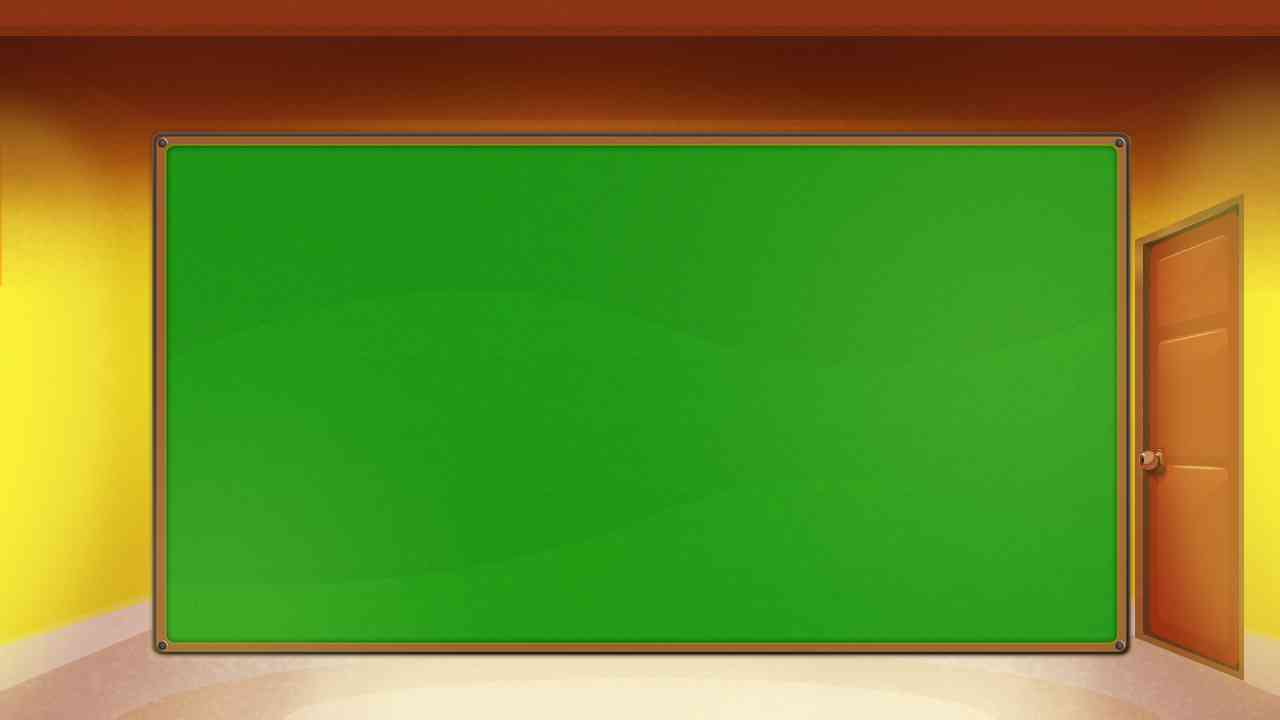
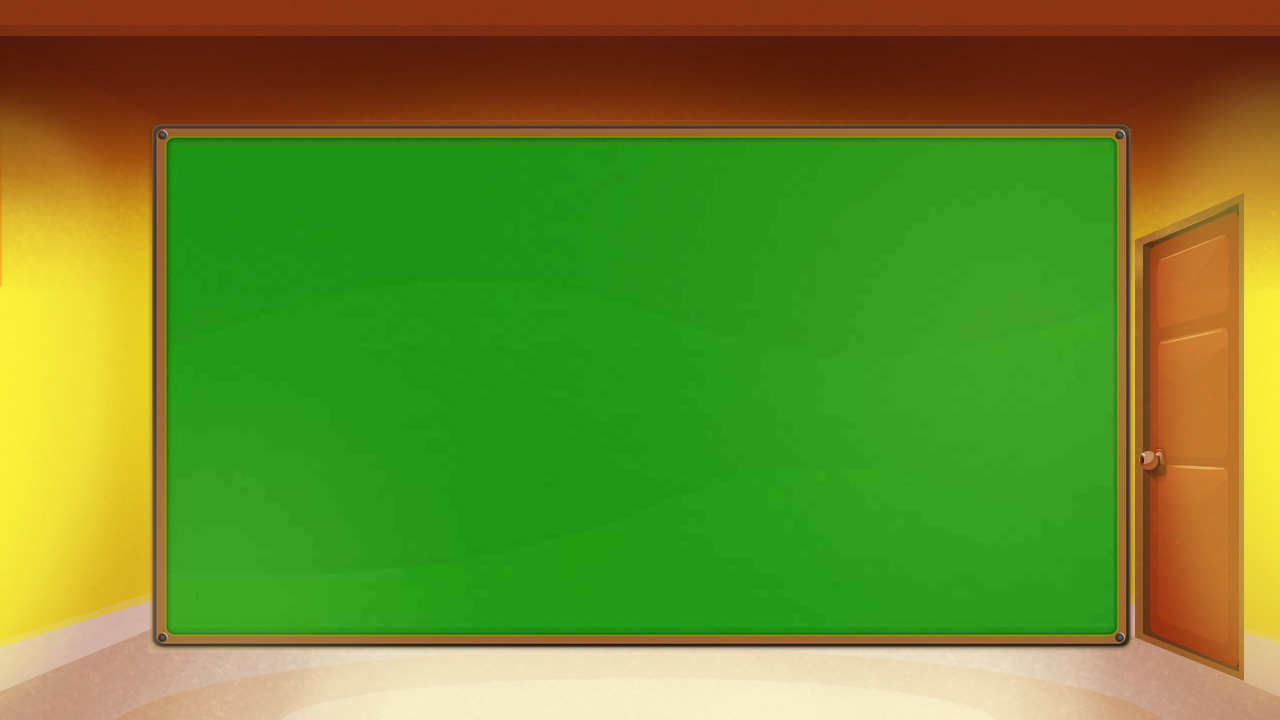
Updated Images BG

diff --git a/screens/Letters/letterScreen.js b/screens/Letters/letterScreen.js
@@ -102,7 +102,7 @@ class Letters extends Component {
         // Component State
     constructor() {
         super();
-        
+
         this.state = {
 
             //Background State
@@ -156,7 +156,7 @@ class Letters extends Component {
     };
 
     skipIntroVideo = () => {
-        this.setState({skipVideo: '-1000%', paused: true, 
+        this.setState({skipVideo: '-1000%', paused: true,
         hideSkipBtn: '-1000%', vidSource: null, menuLetterHide: '20%',
         hideNavButton: '-2%'});
     }
@@ -208,7 +208,7 @@ class Letters extends Component {
 
     changeBackground = (imageBG, soundPlay) => {
         this.stopGlow();
-        this.setState({menuLetterHide: imageBG == imageMainBG ? '20%' : '-1000%', 
+        this.setState({menuLetterHide: imageBG == imageMainBG ? '20%' : '-1000%',
                         prevHide: imageBG == LetterA ? hideLeft : showPrev,
                         imageBackground: imageBG,
                         nextHide: imageBG == imageMainBG ? hideRight : showNext,
@@ -226,7 +226,7 @@ class Letters extends Component {
                 this.arrayLetterSound[this.state.letterPlay].play();
             }
         }, 500);
-        
+
         this.glow1 = setTimeout(() => {
             if(this.arrayWordSound[this.state.letterPlay] != null) {
                 this.arrayWordSound[this.state.letterPlay].play();
@@ -252,8 +252,8 @@ class Letters extends Component {
     sentencePage = () => {
         const letterIndex = this.state.letterPlay;
         this.stopGlow();
-        this.setState({menuLetterHide: '-1000%', 
-                        imageBackground: sentenceBGList[letterIndex], 
+        this.setState({menuLetterHide: '-1000%',
+                        imageBackground: sentenceBGList[letterIndex],
                         prevHide: hideLeft, nextHide: hideRight,
                         glowHide: hideLeft, speakerHide: hideLeft,
                         speaker2Hide: showSpeaker, sentenceHide: hideRight,
@@ -262,7 +262,7 @@ class Letters extends Component {
             this.playSentenceSound();
         }, 300);
     }
-    
+
     handleBackPress = () => {
         this.arrayLetterSound = null;
         this.arraySentenceSound = null;
@@ -282,9 +282,9 @@ class Letters extends Component {
 
     playSentenceSound = () => {
         this.stopSounds();
-        
+
         const soundSentence = this.arraySentenceSound[this.state.letterPlay];
-        
+
         if(soundSentence != null) {
             setTimeout(()=>{
                 soundSentence.play();
@@ -295,7 +295,7 @@ class Letters extends Component {
     playWordSound = () => {
         this.stopGlow();
         const soundWord = this.arrayWordSound[this.state.letterPlay];
-        
+
         if(soundWord != null) {
             setTimeout(()=>{
                 soundWord.play();
@@ -339,7 +339,7 @@ class Letters extends Component {
             this.arraySentenceSound[this.state.letterPlay].stop();
         }
     }
-    
+
     goPrev = () => {
         const letterNum = this.state.letterPlay;
         const prevPage = letterNum - 1;
@@ -357,7 +357,7 @@ class Letters extends Component {
     goBack = () => {
         if(this.state.prevBG == sentenceBGList[this.state.letterPlay]) {
             this.stopGlow();
-            this.setState({menuLetterHide: '-1000%', 
+            this.setState({menuLetterHide: '-1000%',
                     imageBackground: letterBGList[this.state.letterPlay],
                     prevHide: letterBGList[this.state.letterPlay] == LetterA ? hideLeft : showPrev,
                     pencilHide: showPencil,
@@ -366,7 +366,7 @@ class Letters extends Component {
                     sentenceHide: showSentence,
                     nextHide: showNext,
                     speaker2Hide: hideLeft, prevBG: letterBGList[this.state.letterPlay]});
-                
+
         } else {
             if(this.state.imageBackground == imageMainBG) {
                 clearTimeout(this.wordSound);
@@ -390,9 +390,11 @@ class Letters extends Component {
 
     render() {
         return (
-            
-            <ImageBackground source={imageMainBG} style={{flex: 1, width: '100%', height: '100%', resizeMode: 'stretch'}}>
 
+            <ImageBackground source={imageMainBG} style={{flex: 1, width: '100%', height: '100%', resizeMode: 'stretch'}}>
+                <View style={{position: 'absolute', top: '0%', width: '100%', height: '100%'}}>
+                    <Image source={imageMainBG} style={{width: '100%', height: '100%', resizeMode: 'stretch'}}></Image>
+                </View>
                 <View style={{position: 'absolute', top: this.state.hideLetterBG, width: '100%', height: '100%'}}>
                     <Image source={this.state.imageBackground} style={{width: '100%', height: '100%', resizeMode: 'stretch'}}></Image>
                 </View>
@@ -477,7 +479,7 @@ class Letters extends Component {
                         ></Image>
                     </TouchableOpacity>
                 </View>
-                    
+
                  {/* Prev Button */}
                 <View style={{position: 'absolute', left: this.state.prevHide, top: '40%', width: '12%', height: '24%',}}>
                     <TouchableOpacity onPress={this.goPrev}>
@@ -500,7 +502,7 @@ class Letters extends Component {
                 {/* End of Page Letters Code Part */}
 
 
-                
+
                 {/* Start of Letters Enum Code Part */}
                 <View style={{position: 'absolute', top: this.state.menuLetterHide, left: '15%', width: '80%', height: '60%', flexDirection: 'row', flexWrap: 'wrap',}}>
                     <MenuItem itemImage={require('./lettersImage/a.png')} goto={() => {
